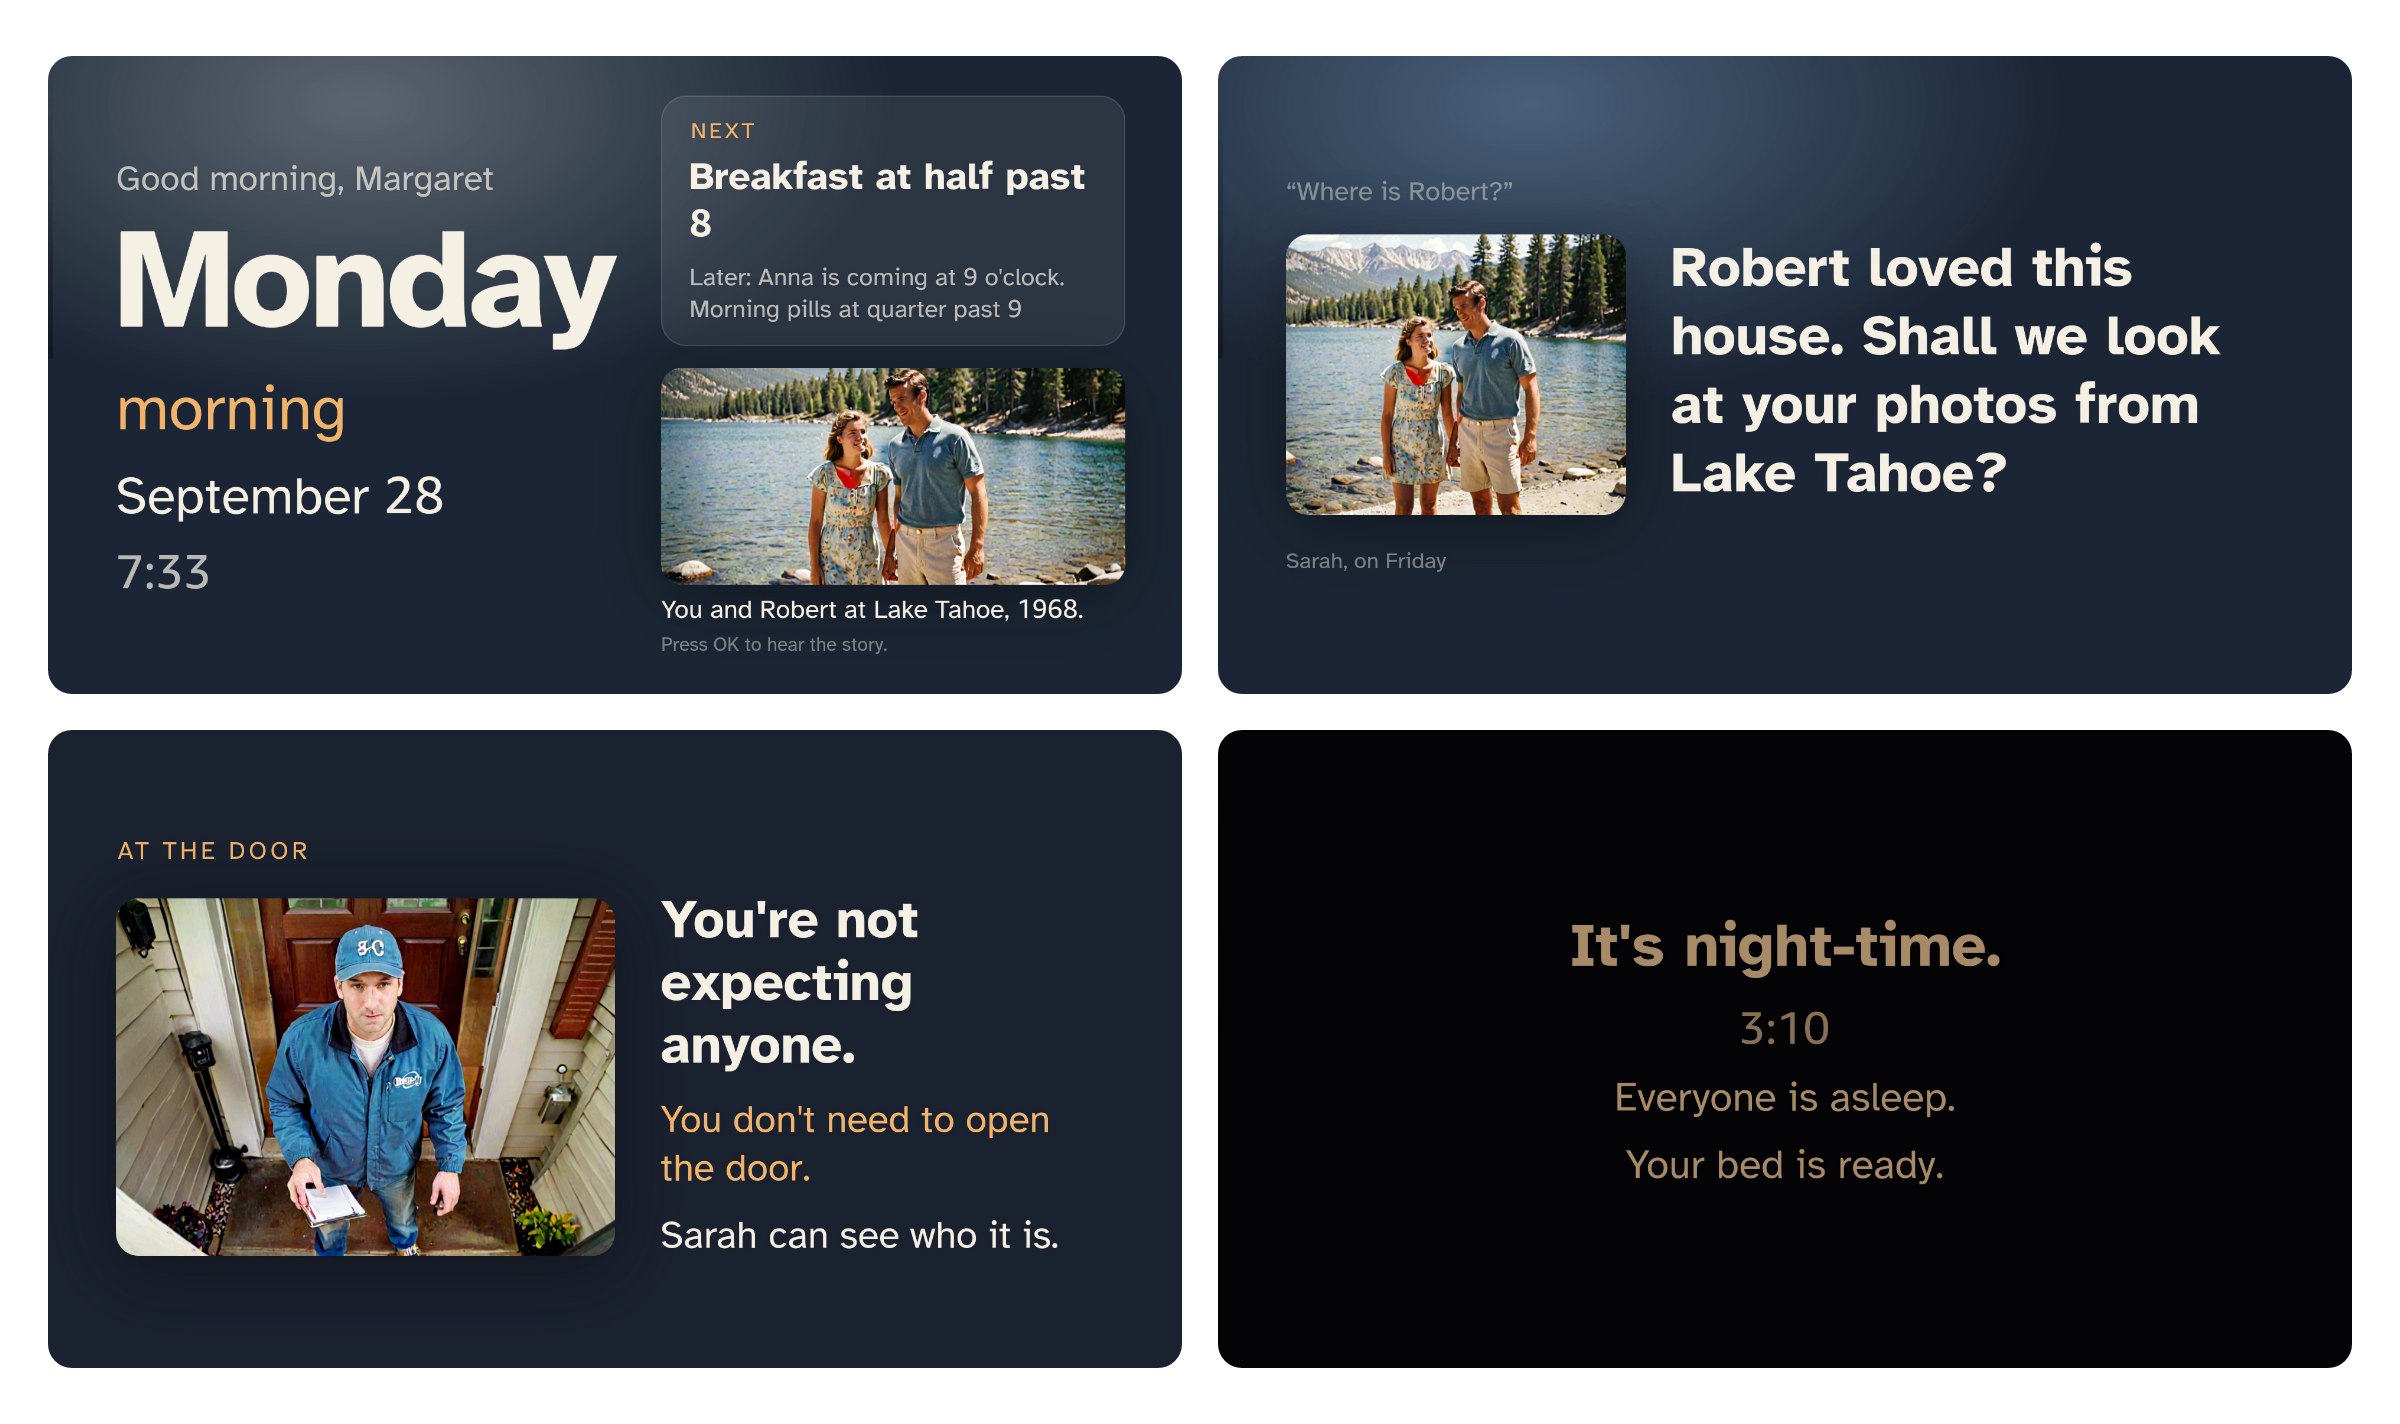
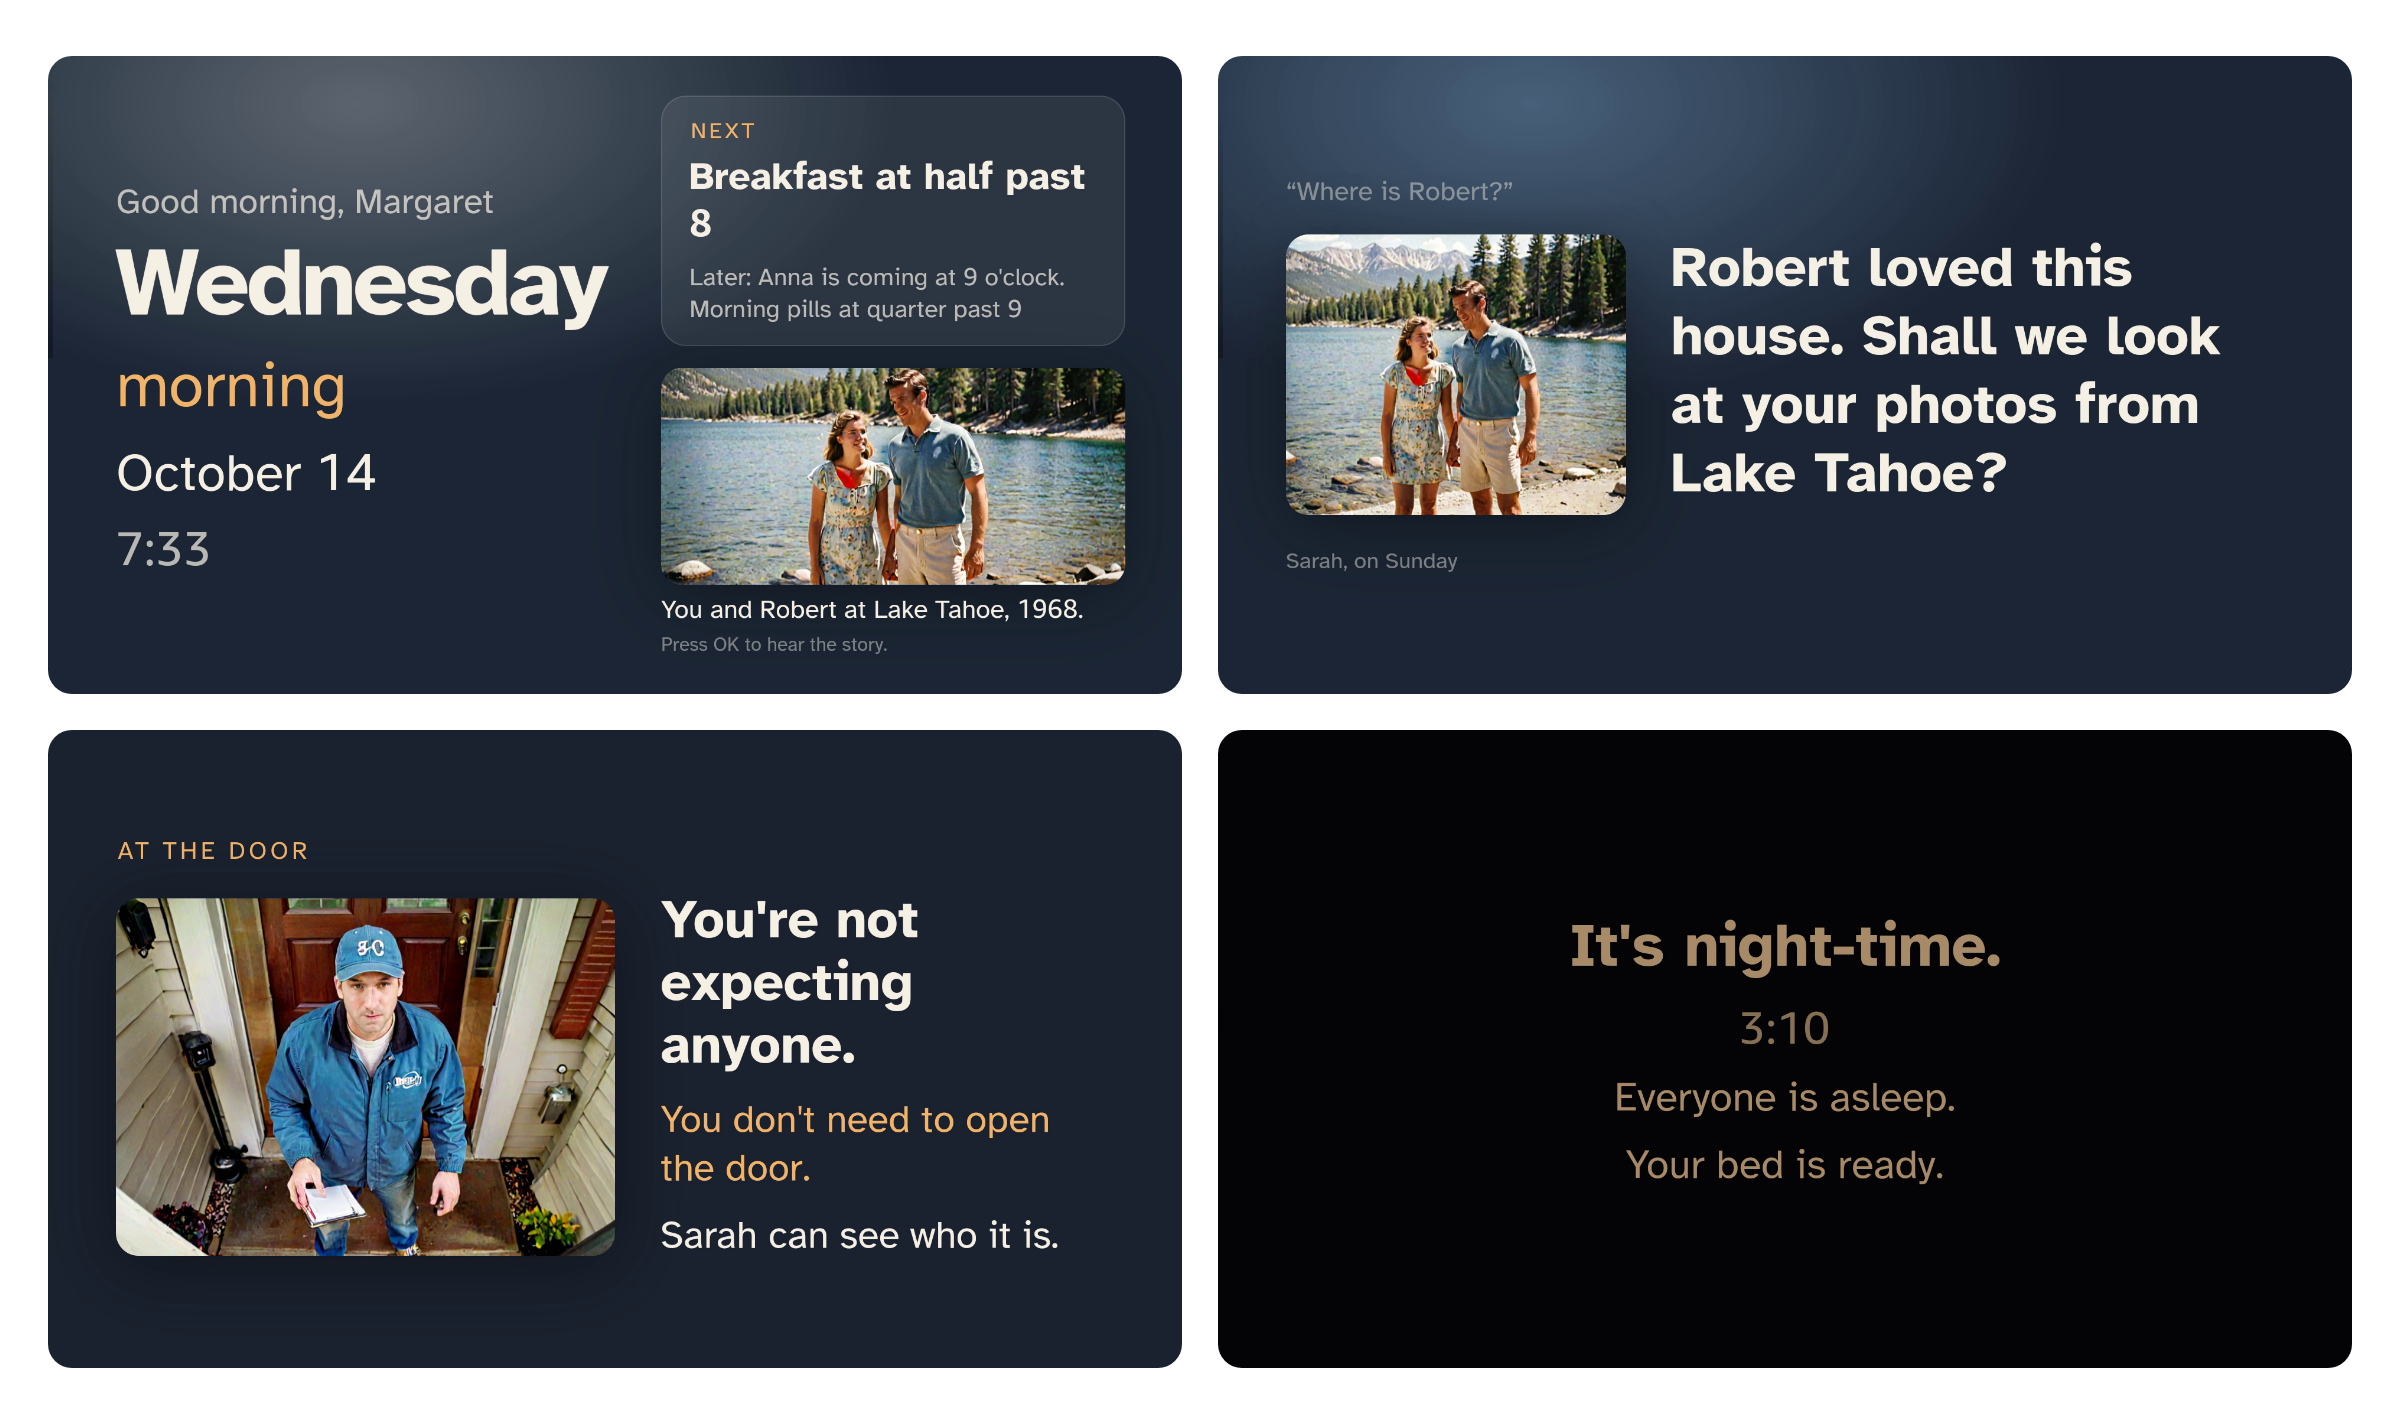
OK on an answer opens the story it offers; long day names fit; light question in the demo; figures

Changed region(s): [[0.0312, 0.1236, 0.25, 0.4326]]

diff --git a/vega/src/App.tsx b/vega/src/App.tsx
@@ -6,8 +6,9 @@
  * matches questions and resolves the family's answers on the TV itself; the
  * household server supplies the plan, the door cards and the recordings.
  *
- * The remote: OK reads the day aloud, or plays a photo's story; Left and Right
- * browse photos; Back closes whatever is on screen.
+ * The remote: OK reads the day aloud, or plays a photo's story (also from an
+ * answer that offers one); Left and Right browse photos; Back closes whatever
+ * is on screen.
  *
  * Vega gives apps no camera and no speech recognition, so on Vega the person
  * is treated as present. A demo server can stand in for both (a heard sentence,
@@ -19,7 +20,7 @@ import * as React from 'react';
 import {useCallback, useEffect, useMemo, useRef, useState} from 'react';
 import {BackHandler, StyleSheet, View} from 'react-native';
 import {useHideSplashScreenCallback, usePreventHideSplashScreen, useTVEventHandler, type HWEvent} from '@amazon-devices/react-native-kepler';
-import {Matcher, UNKNOWN_RESPONSE, addressed, computeToday, isQuestion, nextMessage, resolveAnswer, type Answer, type DoorCard, type Household, type Message, type Moment} from './core';
+import {Matcher, UNKNOWN_RESPONSE, addressed, computeToday, isQuestion, nextMessage, resolveAnswer, storyBehind, type Answer, type DoorCard, type Household, type Message, type Moment} from './core';
 import {SERVER, TOKEN} from './config';
 import {Connection, type TvState} from './connection';
 import {AnswerScreen, Backdrop, DoorScreen, Fade, Loading, MessageScreen, NightScreen, RestScreen, Status, StoryScreen, THEME, TodayScreen, mix, type Mode} from './screens';
@@ -211,17 +212,24 @@ function Screen() {
     if (e.eventKeyAction !== KEY_DOWN || !h || !board) return;
     // The remote's OK arrives as 'select'; a keyboard's Enter as 'enter'.
     const ok = e.eventType === 'select' || e.eventType === 'enter';
+    const playStory = (m: Moment & {story: NonNullable<Moment['story']>}) => {
+      showFor({kind: 'story', moment: m}, 40);
+      conn.send('story.played', {id: m.id});
+      void say(conn, {text: m.story.text, audio: m.story.audio});
+    };
     if (overlay) {
-      if (ok) closeOverlay();
+      if (!ok) return;
+      // An answer that offers a story ("Shall we look at your photos?"): OK is yes.
+      const offered = overlay.kind === 'answer' ? storyBehind(h, overlay.answer) : undefined;
+      if (offered?.story) playStory({...offered, story: offered.story});
+      else closeOverlay();
       return;
     }
     if (e.eventType === 'right') setMomentIndex(i => i + 1);
     else if (e.eventType === 'left') setMomentIndex(i => i - 1 + Math.max(1, moments.length));
     else if (ok) {
       if (moment?.story && !board.next?.soon) {
-        showFor({kind: 'story', moment}, 40);
-        conn.send('story.played', {id: moment.id});
-        void say(conn, {text: moment.story.text, audio: moment.story.audio});
+        playStory({...moment, story: moment.story});
       } else {
         void say(conn, {text: `${board.speech}${board.next ? ` ${board.next.speech}.` : ''}`});
       }

diff --git a/tests/ui.test.ts b/tests/ui.test.ts
@@ -120,23 +120,23 @@ describe.skipIf(!ready)("interfaces in a browser", () => {
     if (!browser) return;
     const sarah = await browser.newPage({ viewport: { width: 412, height: 915 } });
     await sarah.goto(`${base}/family/?token=demo-sarah#home`);
-    const row = sarah.locator(".row", { hasText: "where are my glasses" });
+    const row = sarah.locator(".row", { hasText: "why is the light not working" });
     await row.getByRole("button", { name: "Add an answer" }).click();
     await sarah.getByText("A new answer").waitFor();
-    expect(await sarah.getByPlaceholder("where is robert").first().inputValue()).toBe("where are my glasses");
-    await sarah.getByPlaceholder("Robert", { exact: true }).fill("Glasses");
-    await sarah.locator("textarea").first().fill("Your glasses are on the table by your chair.");
+    expect(await sarah.getByPlaceholder("where is robert").first().inputValue()).toBe("why is the light not working");
+    await sarah.getByPlaceholder("Robert", { exact: true }).fill("The light");
+    await sarah.locator("textarea").first().fill("Sarah will come tonight to fix it.");
     await sarah.getByRole("button", { name: "Save" }).click();
-    await sarah.getByText("Your glasses are on the table by your chair.").waitFor();
+    await sarah.getByText("Sarah will come tonight to fix it.").waitFor();
 
     // Ten minutes later: the doorbell card from the first test has expired.
     await post("/api/dev/clock", { time: "14:20", date: "2026-09-29" });
     const tv = await browser.newPage({ viewport: { width: 1920, height: 1080 } });
     await tv.goto(`${base}/tv/?token=demo-tv&dev=1`);
     await tv.getByText("Good afternoon, Margaret").waitFor();
-    await tv.fill(".dev input", "Where are my glasses?");
+    await tv.fill(".dev input", "Why is the light not working?");
     await tv.press(".dev input", "Enter");
-    await tv.getByText("Your glasses are on the table by your chair.").waitFor();
+    await tv.getByText("Sarah will come tonight to fix it.").waitFor();
     await sarah.close();
     await tv.close();
   }, 60_000);

diff --git a/apps/tv/src/App.tsx b/apps/tv/src/App.tsx
@@ -8,6 +8,8 @@ import {
   memberById,
   nextMessage,
   resolveAnswer,
+  dayNameSize,
+  storyBehind,
   type Answer,
   type DoorCard,
   type Household,
@@ -234,7 +236,14 @@ function Screen({ settings }: { settings: NonNullable<ReturnType<typeof resolveS
         return;
       }
       if (overlay) {
-        if (ev.key === "Enter") closeOverlay();
+        if (ev.key !== "Enter") return;
+        // An answer that offers a story ("Shall we look at your photos?"): OK is yes.
+        const offered = overlay.kind === "answer" ? storyBehind(h, overlay.answer) : undefined;
+        if (offered?.story) {
+          showFor({ kind: "story", moment: offered }, 40);
+          conn.send("story.played", { id: offered.id });
+          void say(conn, { text: offered.story.text, audio: offered.story.audio });
+        } else closeOverlay();
         return;
       }
       if (ev.key === "ArrowRight") setMomentIndex((i) => i + 1);
@@ -336,7 +345,7 @@ function TodayScreen({ board, h, moment, photo, highlight }: { board: TodayBoard
         <div className="greeting">
           {greeting}, {h.person.name}
         </div>
-        <div className="dayname">{board.dayName}</div>
+        <div className="dayname" style={{ fontSize: `${dayNameSize(board.dayName)}vw` }}>{board.dayName}</div>
         <div className="part">{board.partOfDay}</div>
         <div className="date">{board.dateLine}</div>
         <div className="clock">{board.clock}</div>

diff --git a/vega/src/screens.tsx b/vega/src/screens.tsx
@@ -9,11 +9,17 @@
 import * as React from 'react';
 import {useEffect, useRef} from 'react';
 import {Animated, Dimensions, Image, StyleSheet, Text, View, type TextStyle} from 'react-native';
-import {memberById, type Answer, type DoorCard, type Household, type Message, type Moment, type TodayBoard} from './core';
+import {dayNameSize, memberById, type Answer, type DoorCard, type Household, type Message, type Moment, type TodayBoard} from './core';
 
 const {width, height} = Dimensions.get('window');
 /** 1% of the screen's width and height, the units the web interface is written in. */
 const vw = width / 100;
+
+/** The day name as large as its column allows on one line ("Wednesday" shrinks, "Monday" does not). */
+const daySize = (name: string): TextStyle => {
+  const f = dayNameSize(name) * vw;
+  return {fontSize: f, lineHeight: f * 1.02};
+};
 const vh = height / 100;
 
 export const INK = '#f7f1e6';
@@ -128,7 +134,7 @@ export function TodayScreen({board, h, moment, photo, highlight, accent}: {board
           <T style={s.greeting}>
             {greeting}, {h.person.name}
           </T>
-          <T style={s.dayname}>{board.dayName}</T>
+          <T style={[s.dayname, daySize(board.dayName)]} numberOfLines={1}>{board.dayName}</T>
           <T style={[s.part, {color: accent}]}>{board.partOfDay}</T>
           <T style={s.date}>{board.dateLine}</T>
           <Text style={s.clock}>{board.clock}</Text>

diff --git a/tests/core.answers.test.ts b/tests/core.answers.test.ts
@@ -1,4 +1,4 @@
-import { Matcher, UNKNOWN_RESPONSE, addressed, isQuestion, resolveAnswer } from "../packages/core/src";
+import { Matcher, UNKNOWN_RESPONSE, addressed, demoHousehold, isQuestion, resolveAnswer, storyBehind } from "../packages/core/src";
 import { at, household } from "./helpers";
 
 function ask(text: string, hhmm = "14:05") {
@@ -140,5 +140,14 @@ describe("answers", () => {
 
   it("has a neutral reply for everything else", () => {
     expect(UNKNOWN_RESPONSE.text).toBe("Let's look at today together.");
+  });
+});
+
+describe("storyBehind", () => {
+  it("finds the story an answer's photo offers, and nothing for an answer without one", () => {
+    const h = demoHousehold(new Date("2026-09-29T14:00:00Z"));
+    expect(storyBehind(h, { photo: "moment-tahoe-1968" })?.id).toBe("m-tahoe");
+    expect(storyBehind(h, { photo: "photo-sarah" })).toBeUndefined();
+    expect(storyBehind(h, {})).toBeUndefined();
   });
 });

diff --git a/packages/core/src/answers.ts b/packages/core/src/answers.ts
@@ -18,7 +18,7 @@
  * a family member, or are computed from the plan and the clock.
  */
 
-import type { Household, Member, PlanItem, Topic } from "./model";
+import type { Household, Member, Moment, PlanItem, Topic } from "./model";
 import { memberById } from "./model";
 import { itemsOn } from "./today";
 import { normalize, sameName, tokens } from "./text";
@@ -488,3 +488,12 @@ export const UNKNOWN_RESPONSE = {
   text: "Let's look at today together.",
   speech: "Let's look at today together.",
 };
+
+/**
+ * The family story behind an answer's photo. An answer that offers one ("Shall
+ * we look at your photos from Lake Tahoe?") opens it on the remote's OK.
+ */
+export function storyBehind(h: Household, answer: Pick<Answer, "photo">): Moment | undefined {
+  if (!answer.photo) return undefined;
+  return h.moments.find((m) => m.photo === answer.photo && m.story);
+}

diff --git a/tests/core.today.test.ts b/tests/core.today.test.ts
@@ -1,4 +1,4 @@
-import { computeToday, nextMessage, screenMode, parseClock } from "../packages/core/src";
+import { computeToday, dayNameSize, nextMessage, screenMode, parseClock } from "../packages/core/src";
 import { at, household } from "./helpers";
 
 describe("Today screen", () => {
@@ -65,5 +65,13 @@ describe("messages", () => {
     const { h } = household("07:42");
     delete h.messages[0]!.approvedBy;
     expect(nextMessage(h, at("07:42"), true)).toBeUndefined();
+  });
+});
+
+describe("dayNameSize", () => {
+  it("keeps short day names at full size and shrinks long ones to fit the column", () => {
+    expect(dayNameSize("Monday")).toBe(12.5);
+    expect(dayNameSize("Wednesday")).toBeLessThan(9);
+    expect(dayNameSize("Wednesday") * "Wednesday".length * 0.6).toBeLessThanOrEqual(46.0001);
   });
 });

diff --git a/packages/core/src/today.ts b/packages/core/src/today.ts
@@ -146,3 +146,13 @@ export function computeToday(h: Household, now: Date | number): TodayBoard {
     speech: `It's ${dayName} ${pod === "night" ? "night" : pod}, ${spokenDate(p.date)}.`,
   };
 }
+
+/**
+ * The day name's size on the Today screen, in viewport-width units: as large as
+ * the design allows (12.5) while the name still fits its column on one line.
+ * "Monday" keeps the full size; "Wednesday" shrinks instead of wrapping.
+ */
+export function dayNameSize(name: string, columnVw = 46, maxVw = 12.5): number {
+  // Atkinson Hyperlegible Bold averages about 0.6 em per letter in a day name.
+  return Math.min(maxVw, columnVw / (Math.max(1, name.length) * 0.6));
+}

diff --git a/packages/core/src/demo.ts b/packages/core/src/demo.ts
@@ -180,7 +180,7 @@ export function demoHousehold(now: Date): Household {
   };
 }
 
-const UNKNOWN_SAMPLES = ["is it going to rain", "did the paper come", "where are my glasses", "is my mother coming"];
+const UNKNOWN_SAMPLES = ["is it going to rain", "did the paper come", "why is the light not working", "is my mother coming"];
 
 /**
  * Turn simulated care-day features into the raw events a TV would have sent,
